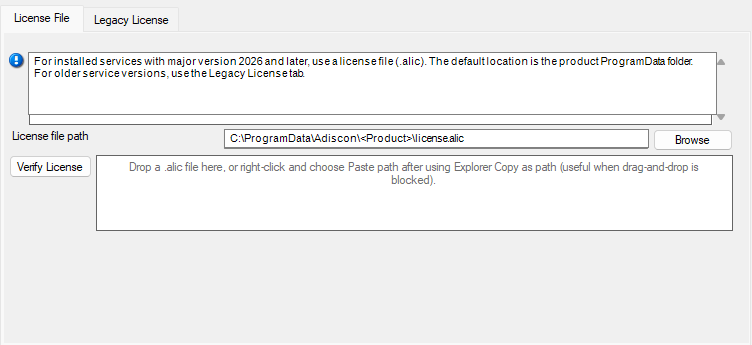
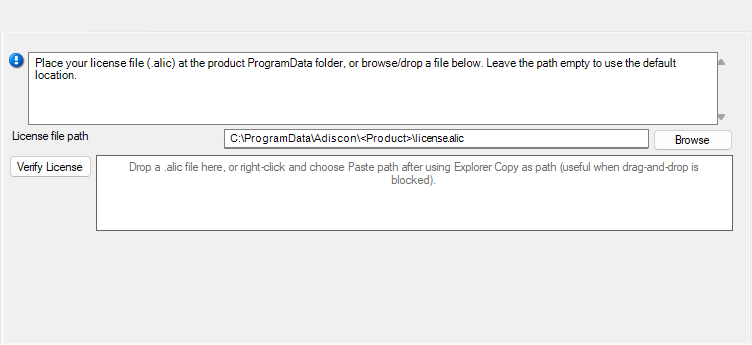
Update license documentation for .alic-only UI (#98)
Refresh the documentation for the simplified General > License workflow after
legacy registration-name and numeric-key licensing was removed from the client.

- Rewrite the shared license options page to describe the current single
  license-file page instead of separate License File and License Keys tabs.
- Remove obsolete legacy key documentation for registration names, numeric
  license key fields, and clipboard key import.
- Update EventReporter, MonitorWare Agent, rsyslog Windows Agent, and WinSyslog
  FAQ instructions to apply license.alic directly through General > License.
- Correct the step-by-step license article wording so it no longer refers to the
  removed License File tab.
- Refresh the active license screenshots to remove the old Legacy License tab
  and version-26 transition wording.
- Delete the now-unused legacy license tab screenshots.

Pull request: Update license documentation for .alic-only UI
Refresh the documentation for the simplified General > License workflow after legacy registration-name and numeric-key licensing was removed from the client.

- Rewrite the shared license options page to describe the current single license-file page instead of separate License File and License Keys tabs.
- Remove obsolete legacy key documentation for registration names, numeric license key fields, and clipboard key import.
- Update EventReporter, MonitorWare Agent, rsyslog Windows Agent, and WinSyslog FAQ instructions to apply license.alic directly through General > License.
- Correct the step-by-step license article wording so it no longer refers to the removed License File tab.
- Refresh the active license screenshots to remove the old Legacy License tab and version-26 transition wording.
- Delete the now-unused legacy license tab screenshots.

diff --git a/source/mwagentspecific/license-options.rst b/source/mwagentspecific/license-options.rst
@@ -4,12 +4,12 @@ License
 =======
 
 Licensing options are on **General** -> **License** in the configuration client.
-Current MonitorWare Agent builds use a ``license.alic`` license file.
+Current builds use a ``license.alic`` license file.
 
 License File
 ^^^^^^^^^^^^
 
-Use the **License File** tab to apply ``license.alic``.
+Use this page to apply ``license.alic``.
 
 .. only:: mwagent
 
@@ -56,65 +56,6 @@ Use the **License File** tab to apply ``license.alic``.
   The main window status bar shows license status (for example, the licensed
   organization). A version mismatch between the license file and the installed
   service may show a warning banner until you apply a matching license.
-
-License Keys
-^^^^^^^^^^^^
-
-The **License Keys** tab contains registration name and numeric key fields. In
-current builds, these fields do not activate the product.
-
-.. only:: mwagent
-
-   .. image:: ../images/license-legacy-tab.png
-      :width: 100%
-
-.. only:: winsyslog or winsyslog_j
-
-   .. image:: ../images/license-legacy-tab-winsyslog.png
-      :width: 100%
-
-.. only:: eventreporter or rsyslog
-
-   .. image:: ../images/license-legacy-tab-shared.png
-      :width: 100%
-
-Registration Name
-^^^^^^^^^^^^^^^^^
-
-**File Configuration field:**
-  szlicense
-
-**Description**
-  The user chooses the registration name. It should correspond to your
-  organization name, e.g. a company called "AA Carpenters, Inc." should not
-  choose "AA" as registration name. This can easily be mistaken and most
-  probably be rejected by Adiscon for that reason. With the above scenario,
-  we recommend using the full company name "AA Carpenters, Inc.".
-
-  Please note: The registration name is case sensitive. It must be entered
-  exactly as given. Leading and trailing spaces are also part of the
-  registration name, so be sure to enter none.
-
-
-Registration number
-^^^^^^^^^^^^^^^^^^^
-
-**File Configuration field:**
-  nLicenseKey1, nLicenseKey2, nLicenseKey3, nLicenseKey4, nLicenseKey5
-
-**Description**
-  Adiscon provides this number. It is valid for a specific registration name.
-  Be sure to enter the correct registration number. Each block of the license
-  key must be filled into one of the key fields. Alternatively, you can use
-  the "Import from Clipboard" button. The client detects invalid registration
-  numbers and reports the corresponding error.
-
-
-Import from Clipboard
-^^^^^^^^^^^^^^^^^^^^^
-
-If the key has been copied to the clipboard it can be imported with this button.
-
 
 Verify License
 ^^^^^^^^^^^^^^

diff --git a/source/winsyslogspecific/faq/enter-license-information.rst b/source/winsyslogspecific/faq/enter-license-information.rst
@@ -6,8 +6,8 @@ How Do I Enter WinSyslog License Information?
 Answer
 ------
 
-Apply the ``license.alic`` file through **General** -> **License** ->
-**License File** in the configuration client, save, and restart the service.
+Apply the ``license.alic`` file through **General** -> **License** in the
+configuration client, save, and restart the service.
 
 Details
 -------
@@ -27,10 +27,9 @@ Action path
 1. Obtain ``license.alic`` from Adiscon for your edition.
 2. Open the WinSyslog Configuration Client.
 3. Expand **General** and select **License**.
-4. Open the **License File** tab.
-5. Browse for ``license.alic``, or drag-and-drop the file, or paste the file path.
-6. Save the configuration and verify license status in the client.
-7. Restart the WinSyslog service.
+4. Browse for ``license.alic``, drag-and-drop the file, or paste the file path.
+5. Save the configuration and verify license status in the client.
+6. Restart the WinSyslog service.
 
 Verification
 ------------

diff --git a/source/eventreporterspecific/faq/enter-license-information.rst b/source/eventreporterspecific/faq/enter-license-information.rst
@@ -6,8 +6,8 @@ How Do I Enter EventReporter License Information?
 Answer
 ------
 
-Apply the ``license.alic`` file through **General** -> **License** ->
-**License File** in the configuration client, save, and restart the service.
+Apply the ``license.alic`` file through **General** -> **License** in the
+configuration client, save, and restart the service.
 
 Details
 -------
@@ -28,7 +28,7 @@ Action path
 1. Obtain ``license.alic`` from Adiscon for your edition.
 2. Open the EventReporter Configuration Client.
 3. Expand **General** and select **License**.
-4. Open the **License File** tab and apply ``license.alic``.
+4. Browse for ``license.alic``, drag-and-drop the file, or paste the file path.
 5. Save the configuration and restart the EventReporter service.
 
 Related information

diff --git a/source/mwagentspecific/faq/enter-license-information.rst b/source/mwagentspecific/faq/enter-license-information.rst
@@ -6,8 +6,8 @@ How Do I Enter MonitorWare Agent License Information?
 Answer
 ------
 
-Apply the ``license.alic`` file through **General** -> **License** ->
-**License File** in the configuration client, save, and restart the service.
+Apply the ``license.alic`` file through **General** -> **License** in the
+configuration client, save, and restart the service.
 
 Details
 -------
@@ -27,7 +27,7 @@ Action path
 1. Obtain ``license.alic`` from Adiscon for your edition.
 2. Open the MonitorWare Agent Configuration Client.
 3. Expand **General** and select **License**.
-4. Open the **License File** tab and apply ``license.alic``.
+4. Browse for ``license.alic``, drag-and-drop the file, or paste the file path.
 5. Save the configuration and restart the MonitorWare Agent service.
 
 Related information

diff --git a/source/rsyslogwaspecific/faq/enter-license-information.rst b/source/rsyslogwaspecific/faq/enter-license-information.rst
@@ -6,8 +6,8 @@ How Do I Enter rsyslog Windows Agent License Information?
 Answer
 ------
 
-Apply the ``license.alic`` file through **General** -> **License** ->
-**License File** in the configuration client, save, and restart the service.
+Apply the ``license.alic`` file through **General** -> **License** in the
+configuration client, save, and restart the service.
 
 Details
 -------
@@ -28,7 +28,7 @@ Action path
 1. Obtain ``license.alic`` from Adiscon for your edition.
 2. Open the rsyslog Windows Agent Configuration Client.
 3. Expand **General** and select **License**.
-4. Open the **License File** tab and apply ``license.alic``.
+4. Browse for ``license.alic``, drag-and-drop the file, or paste the file path.
 5. Save the configuration and restart the service.
 
 Related information

diff --git a/source/step-by-step/how-to-enter-the-license-information.rst b/source/step-by-step/how-to-enter-the-license-information.rst
@@ -23,9 +23,8 @@ the menu entry: License.
    :width: 320px
 
 
-If you click on it, you will find the license screen on the right. On product
-current product versions, use the **License File** tab to apply
-``license.alic``.
+If you click on it, you will find the license screen on the right. In current
+product versions, use the license page to apply ``license.alic``.
 
 Browse for the file, drag-and-drop it onto the client, or paste the file path.
 Use **Verify License** to check the selected file.